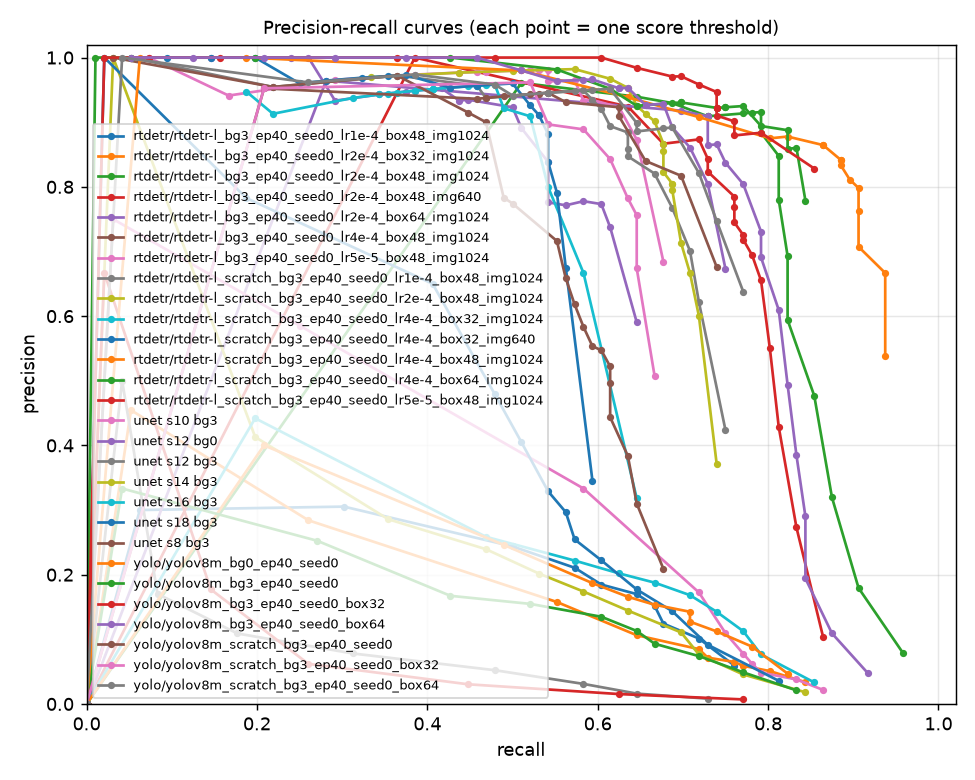
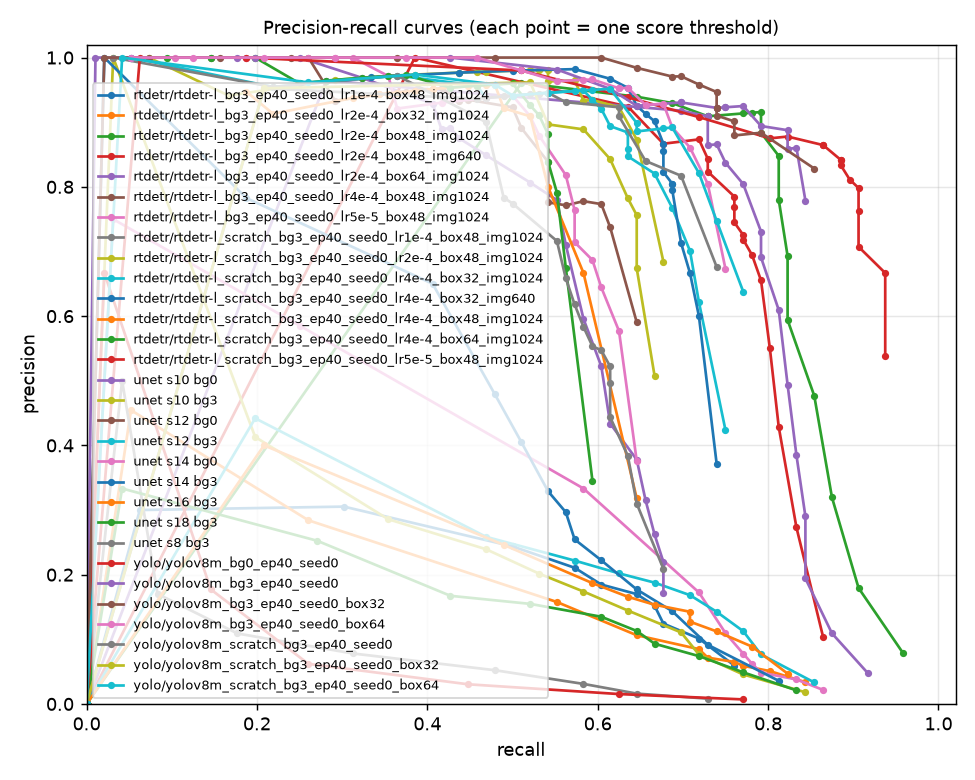
Refresh results_final and results_all with U-Net bg0 runs

diff --git a/tp2/results_all/comparison.md b/tp2/results_all/comparison.md
@@ -19,7 +19,9 @@ F1 / F2 use the best threshold on the validation set (slightly optimistic).
 | rtdetr | rtdetr-l_scratch_bg3_ep40_seed0_lr4e-4_box48_img1024 | 0.328 | 0.414 | 0.246 | 0.490 | 0.247 | 6 | 40 | 24.840 | 18.679 |
 | rtdetr | rtdetr-l_scratch_bg3_ep40_seed0_lr4e-4_box64_img1024 | 0.261 | 0.356 | 0.252 | 0.271 | 0.184 | 0 | 40 | 26.290 | 18.837 |
 | rtdetr | rtdetr-l_scratch_bg3_ep40_seed0_lr5e-5_box48_img1024 | 0.160 | 0.159 | 0.177 | 0.146 | 0.094 | 0 | 40 | 25.200 | 19.374 |
+| unet | sigma10_bg0_ep40_seed0 | 0.646 | 0.587 | 0.779 | 0.552 | 0.584 | 9 | 40 | 20.400 | 22.907 |
 | unet | sigma12_bg0_ep40_seed0 | 0.678 | 0.636 | 0.773 | 0.604 | 0.600 | 12 | 40 | 20.600 | 23.102 |
+| unet | sigma14_bg0_ep40_seed0 | 0.667 | 0.615 | 0.818 | 0.562 | 0.598 | 9 | 40 | 20.600 | 22.928 |
 | unet | sigma8_bg3_ep40_seed0 | 0.624 | 0.594 | 0.716 | 0.552 | 0.574 | 10 | 40 | 50.600 | 22.780 |
 | unet | sigma10_bg3_ep40_seed0 | 0.745 | 0.681 | 0.923 | 0.625 | 0.653 | 2 | 40 | 50.500 | 22.740 |
 | unet | sigma12_bg3_ep40_seed0 | 0.739 | 0.707 | 0.884 | 0.635 | 0.690 | 4 | 40 | 50.500 | 22.746 |
